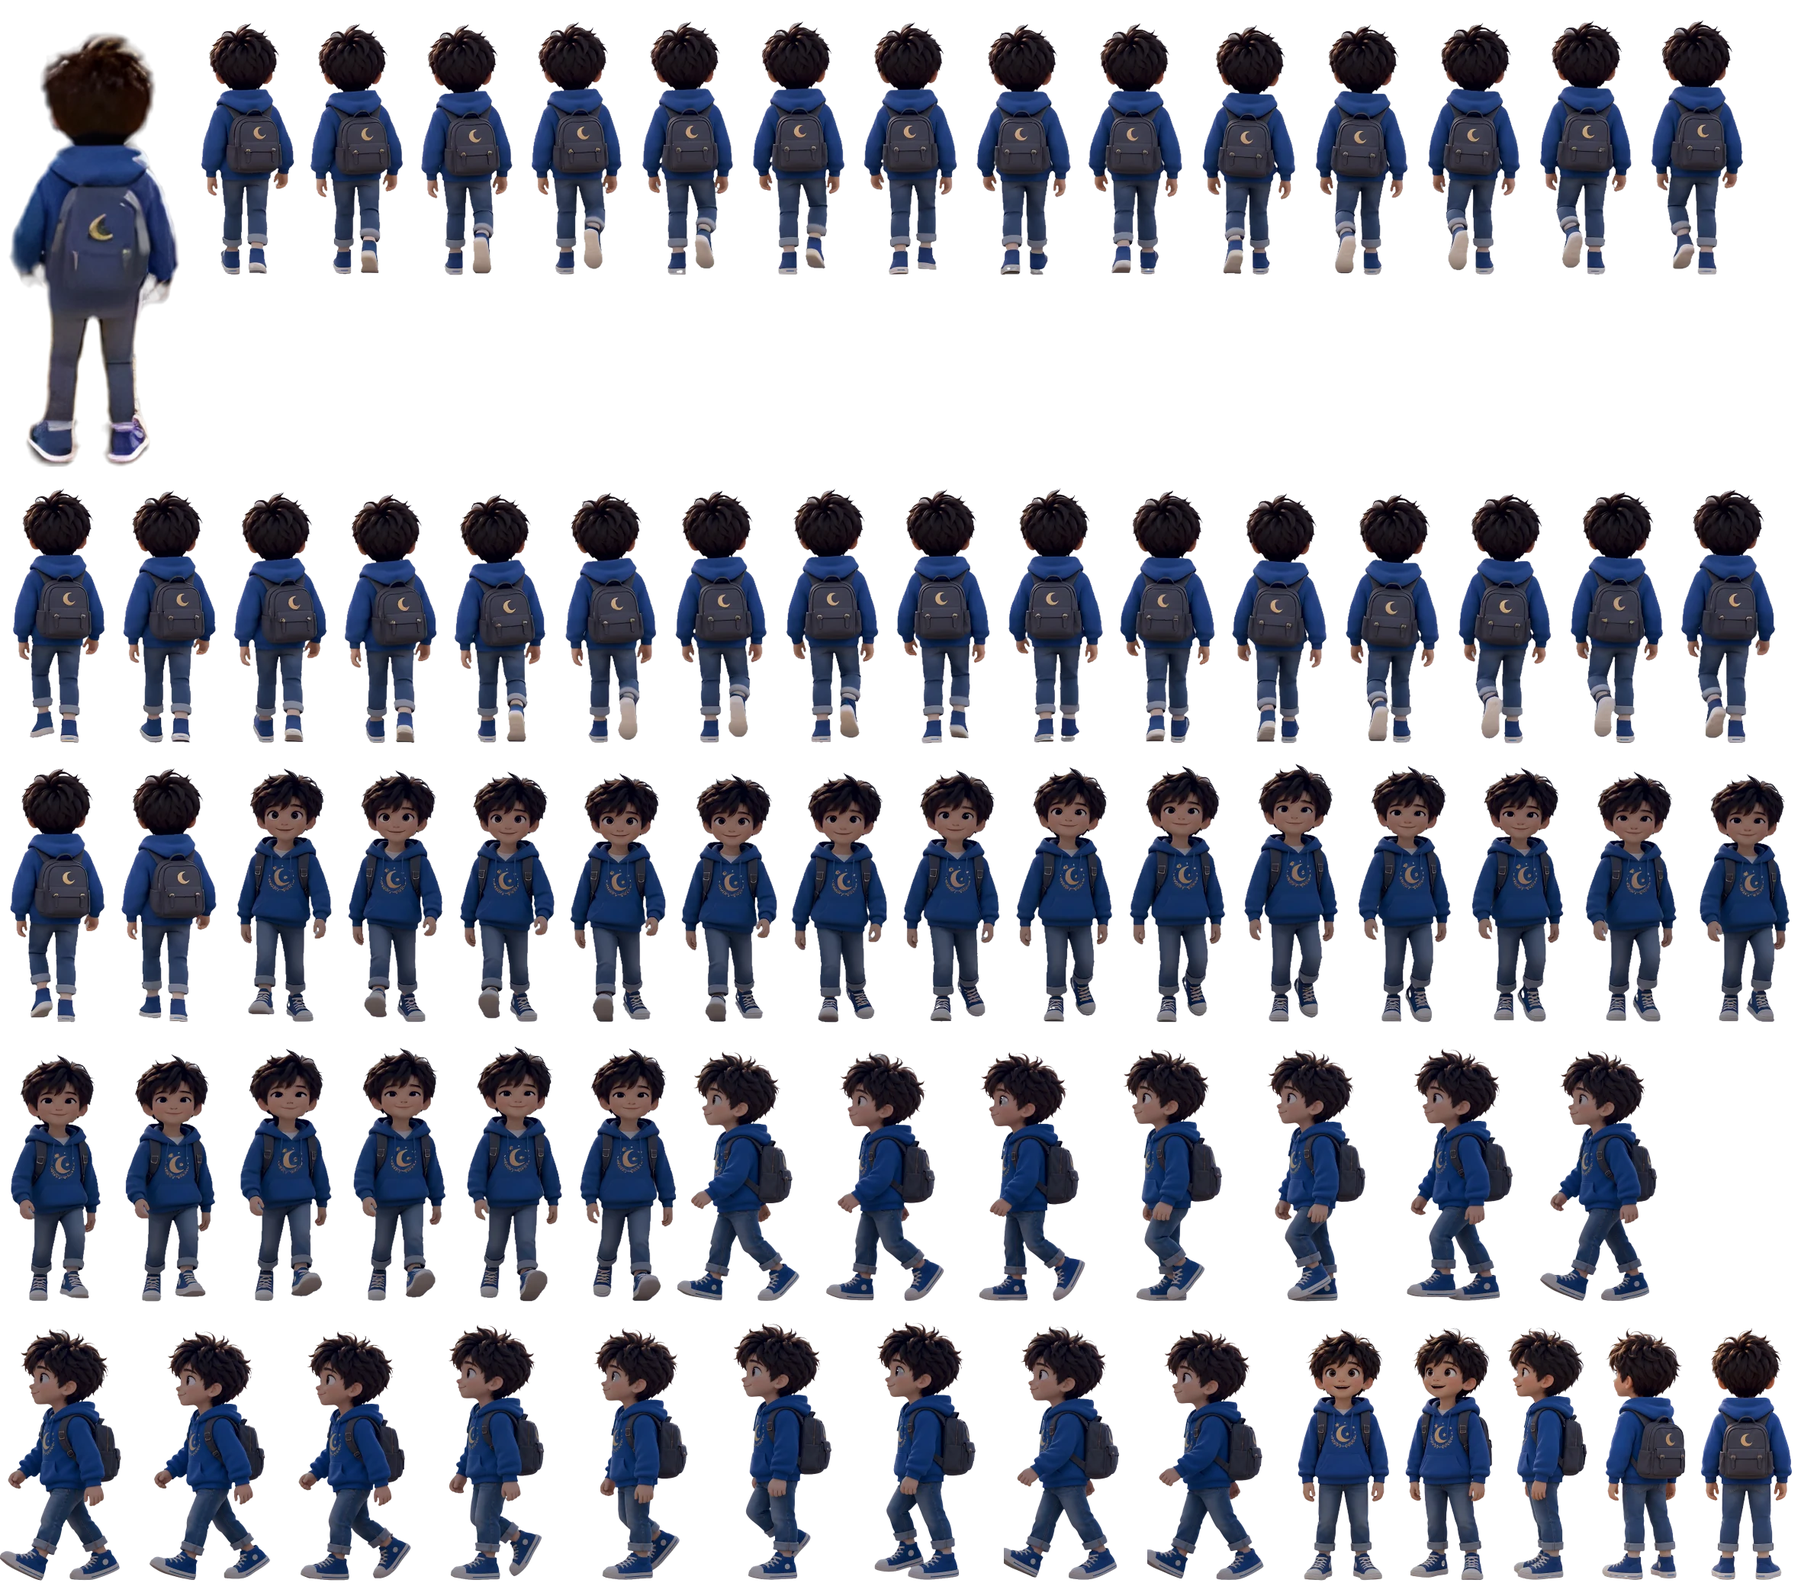
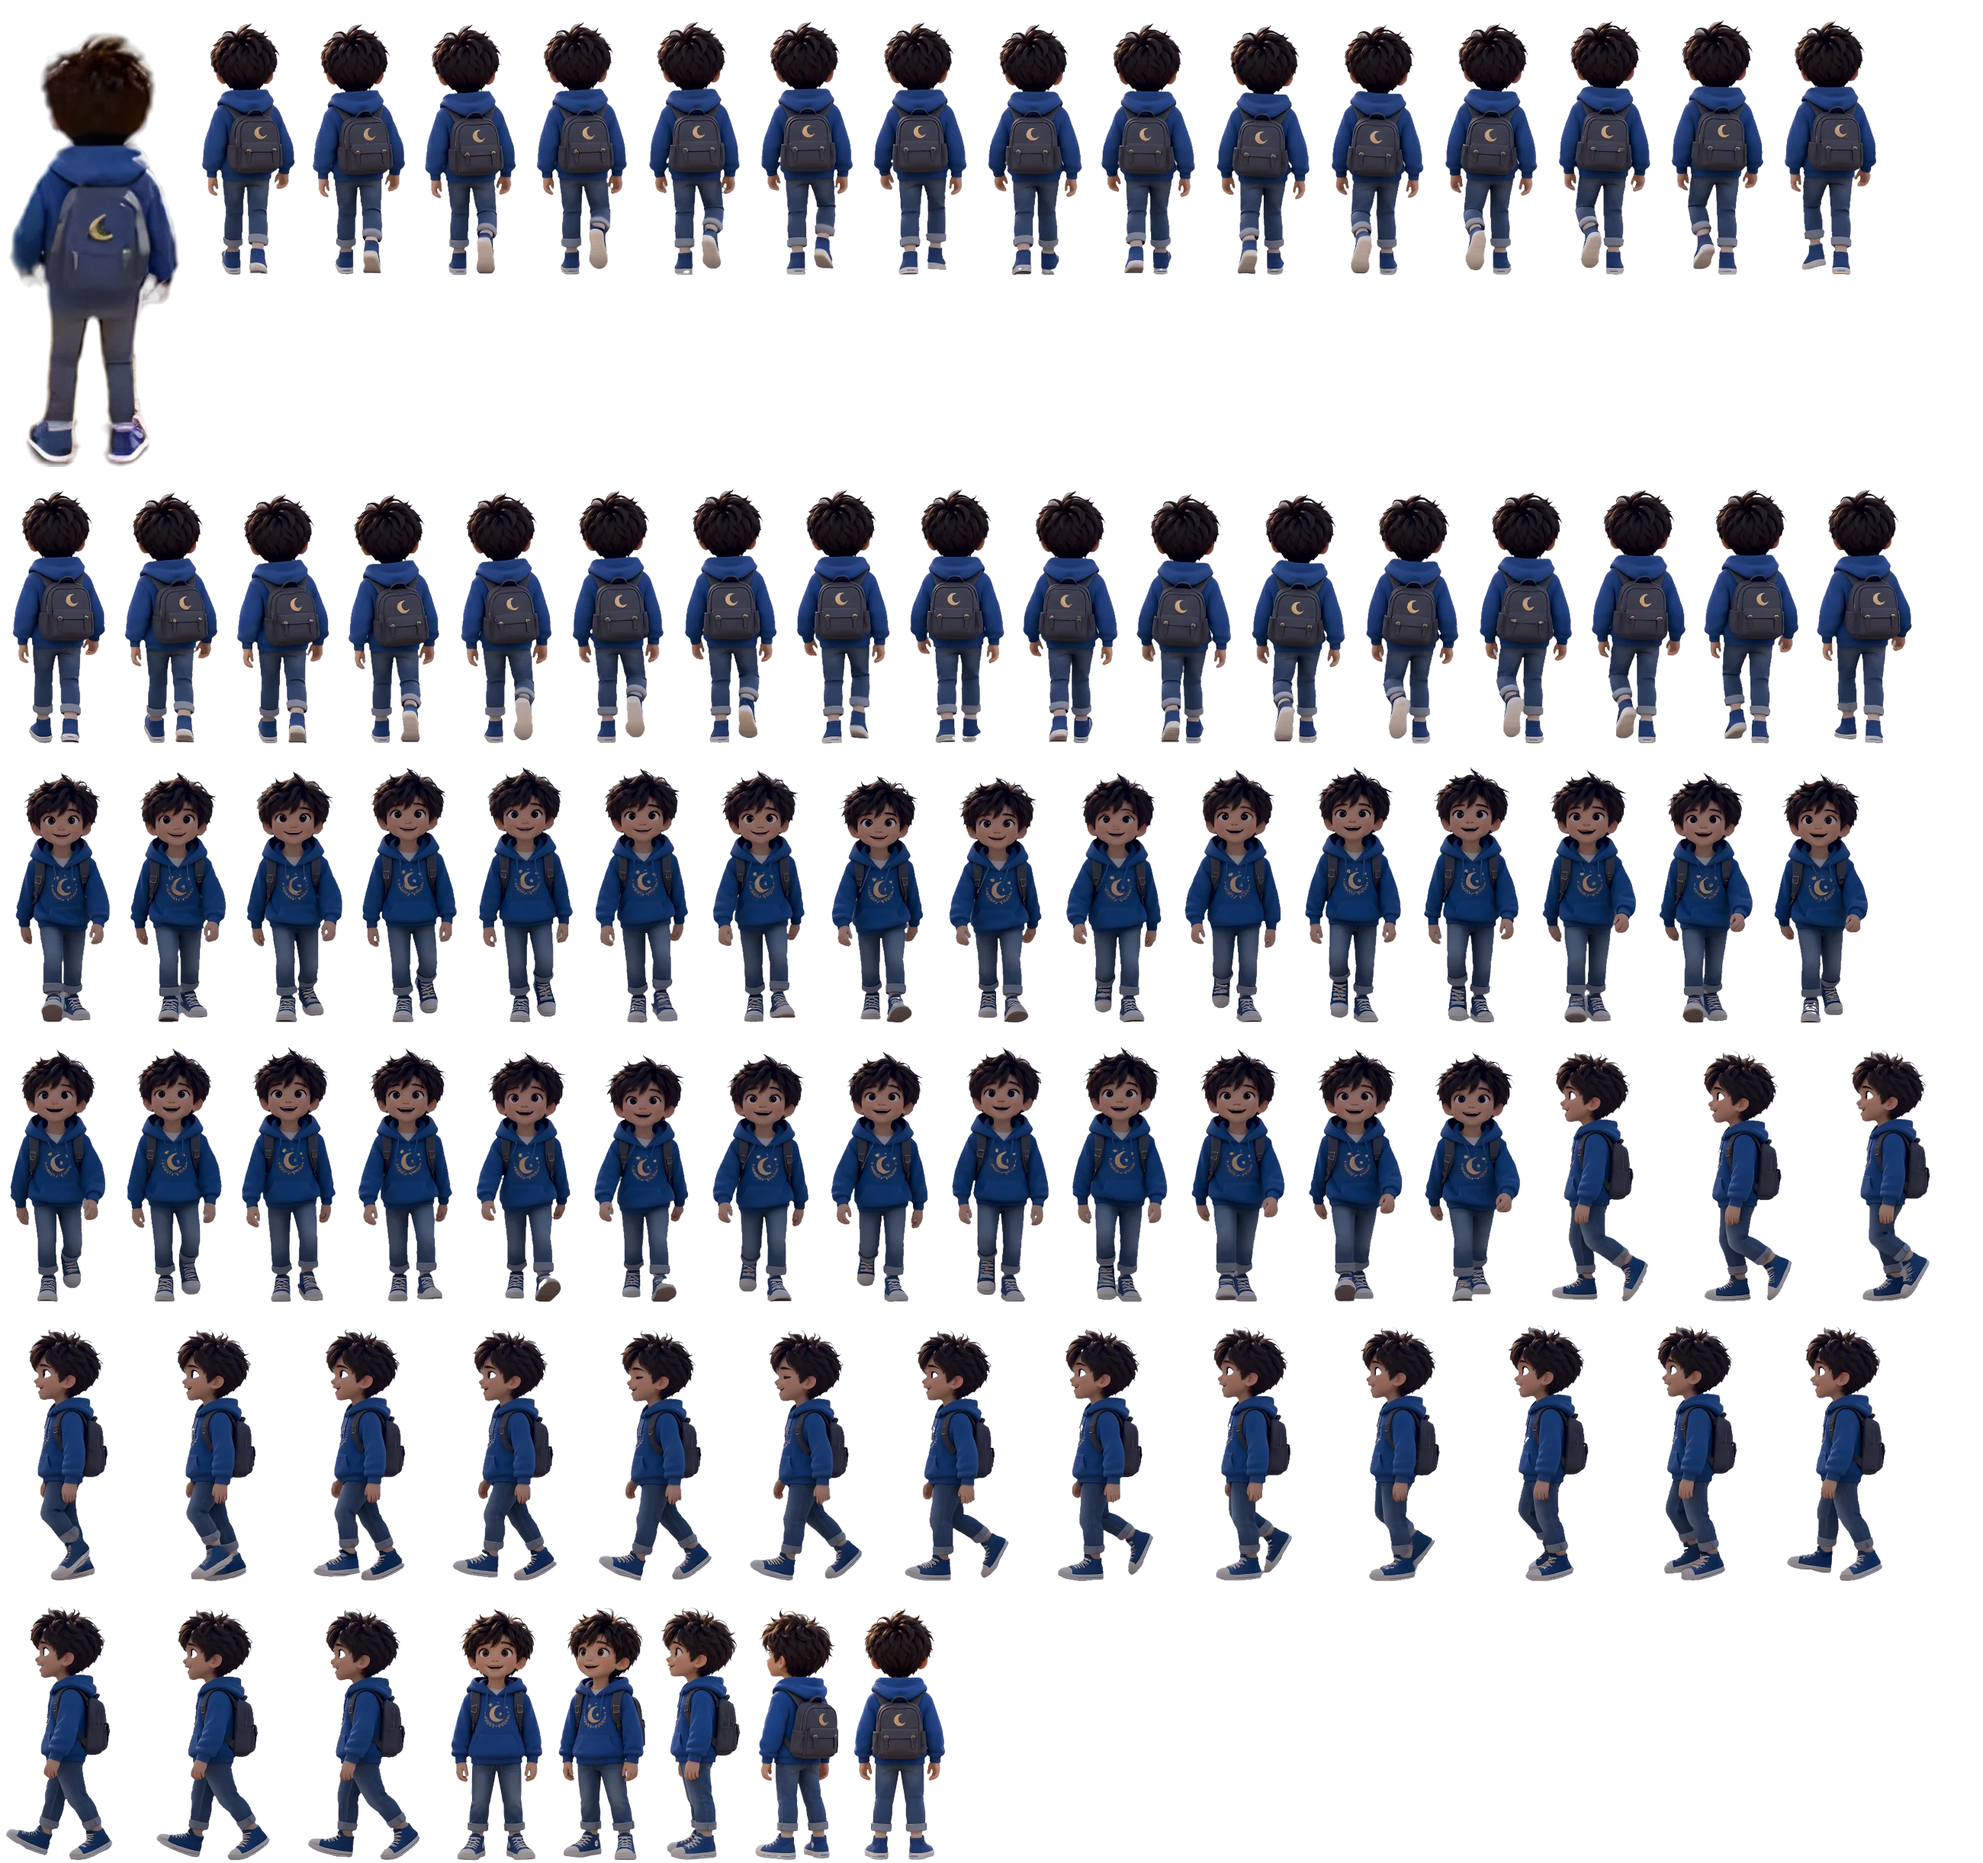
Complete walk animations for Walid, Nesma and the fennec; polish fixes
- All walks now come from Wan 2.2 clips: kids' side and front from trio
  clips, the fennec's side/front/back from fox-only clips with a natural
  diagonal trot (no more pacing)
- Walid's front walk regenerated as a 3 s clip: two full, even strides
- Walk frames fit the farthest pixel on either side of the torso anchor
  (the fennec's tail was clipped in its side walk)
- Overlook: the video-matched poses cross-fade into the crisp back poses
  during the hold before the camera pull-back
- Hero choice: no auto-focused card (Walid looked pre-selected); hover and
  keyboard focus have separate styles
- Prompts for the fox clips; roadmap updated

diff --git a/src/scenes/OverlookScene.ts b/src/scenes/OverlookScene.ts
@@ -141,12 +141,32 @@ export class OverlookScene extends Phaser.Scene {
     this.party = new Party(c[GameState.leaderName], [c[GameState.buddyName], c.fox], this.walkable);
   }
 
+  /**
+   * The first frame uses the poses cut from the video so the hand-over is exact.
+   * While the camera still holds, fade those (blurry) poses into the crisp
+   * turnaround back views.
+   */
+  private crossfadeToCleanPoses(): void {
+    for (const c of Object.values(this.characters)) {
+      const s = c.sprite;
+      const ghost = this.add
+        .image(s.x, s.y, s.texture.key, s.frame.name)
+        .setOrigin(s.originX, s.originY)
+        .setScale(s.scaleX, s.scaleY)
+        .setDepth(s.depth + 0.01);
+      c.introPose = false;
+      c.update(0); // show the clean pose underneath right away
+      this.tweens.add({ targets: ghost, alpha: 0, delay: 150, duration: OPENING_HOLD_MS - 150, ease: 'Sine.easeInOut', onComplete: () => ghost.destroy() });
+    }
+  }
+
   private startOpening(): void {
     if (this.phase !== 'waiting') return;
     this.phase = 'opening';
     const from = { ...this.world.endFrameRect };
     const to = this.world.overviewRect;
     const k0 = this.world.endFrameParty.scale;
+    this.crossfadeToCleanPoses();
     this.time.delayedCall(OPENING_HOLD_MS, () => {
       this.tweens.addCounter({
         from: 0,
@@ -168,8 +188,6 @@ export class OverlookScene extends Phaser.Scene {
           this.phase = 'choose';
           // a short exchange first, so choosing the leader is part of the story
           await this.beforeChoice();
-          // the choice card dims the scene: swap to the high-quality standing poses now
-          for (const c of Object.values(this.characters)) c.introPose = false;
           GameState.hero = await chooseHero();
           this.makeParty();
           this.phase = 'play';

diff --git a/src/styles.css b/src/styles.css
@@ -249,7 +249,9 @@ html, body {
   box-shadow: 0 8px 0 #8a5a12, 0 14px 30px rgba(0, 0, 0, 0.45);
   transition: transform 140ms ease;
 }
-.hero-option:hover, .hero-option:focus-visible { transform: translateY(-4px) scale(1.03); outline: none; border-color: #fff2bf; }
+.hero-option:hover { transform: translateY(-4px) scale(1.05); border-color: #fff2bf; box-shadow: 0 10px 0 #8a5a12, 0 18px 36px rgba(0, 0, 0, 0.5); }
+.hero-option:focus { outline: none; }
+.hero-option:focus-visible { outline: 3px solid var(--gold-2); outline-offset: 4px; }
 .hero-option img { width: 100%; aspect-ratio: 1; object-fit: cover; object-position: 50% 15%; border-radius: 50%; background: #fff; }
 
 /* ---- Discovery toast ---- */

diff --git a/src/ui/HeroSelect.ts b/src/ui/HeroSelect.ts
@@ -31,6 +31,6 @@ export function chooseHero(): Promise<Hero> {
       }),
     );
     root.addEventListener('pointerdown', (e) => e.stopPropagation());
-    root.querySelector<HTMLButtonElement>('.hero-option')?.focus();
+    // no auto-focus: nothing looks pre-selected; Tab still reaches both cards
   });
 }

diff --git a/tools/pipeline/pack_assets.py b/tools/pipeline/pack_assets.py
@@ -50,7 +50,7 @@ WALK_SOURCES = {
     # art masters (ChatGPT/Codex) win over the old intro extractions when present
     "front": ("art:walk_front|work:chars_front_x4", WALK_FRAME_STEP, WALK_FPS // WALK_FRAME_STEP),
     # ChatGPT/Codex side walk (facing left): 16 frames over one stride, timed by timing.json
-    "side": ("art:walk_side", 1, 16),
+    "side": ("art:walk_side", 1, 16),  # all walk masters now come from Wan 2.2 clips (16 fps)
 }
 VIEW_LIGHT_MATCH = 0.75  # how strongly turnaround views take on the scene's light (0..1)
 VIEW_FACINGS: dict[str, dict[str, str]] = {}
@@ -235,6 +235,10 @@ def main() -> None:
             canvas, feet = canvas_for(SHIP_WALK_BODY_PX, ref, walks)
             # one horizontal anchor for the whole loop: the mean torso centre
             centre = float(np.mean([torso_center_x(w) for w in walks]))
+            # the frame must hold the farthest pixel on EITHER side of that anchor
+            # (a fox's tail sticks out far on one side only)
+            reach = max(max(centre - body_box(w)[0], body_box(w)[2] - centre) for w in walks)
+            canvas = (max(canvas[0], int(2 * reach * SHIP_WALK_BODY_PX / ref) + 16), canvas[1])
             prefix = "walk_" if d == "back" else f"walk_{d}_"
             for k, w in enumerate(walks):
                 frames[f"{prefix}{k:02d}"] = fit_frame(w, SHIP_WALK_BODY_PX, ref, canvas, feet, centre)

diff --git a/docs/ROADMAP-world.md b/docs/ROADMAP-world.md
@@ -4,7 +4,7 @@ Ideas agreed on 2026-10-20 for the overlook (before the hero choice) and the Roa
 Tick them off as they land.
 
 ## Overlook
-- [ ] **1. A short scene before the choice.** A short exchange after the camera pull-back (Walid: "Look, the whole Kingdom!", Nesma: "Where do we start?", the fox yips towards the trail), then "Who leads the way?".
+- [x] **1. A short scene before the choice.** A short exchange after the camera pull-back (Walid: "Look, the whole Kingdom!", Nesma: "Where do we start?", the fox yips towards the trail), then "Who leads the way?".
 - [ ] **2. Ambient life.** Drifting clouds, sparkling waterfalls, a few birds, so the world feels alive rather than a still picture.
 - [ ] **3. Sound and music.** Continue the intro's music into the game. Add soft footsteps and sparkle sounds for waypoints. This matters most for the demo video.
 
@@ -16,6 +16,6 @@ Tick them off as they land.
 - [ ] **8. Arabic dialogue.** Translate `content/dialogue/road.ink`; the dialogue box already supports right-to-left text.
 
 ## Character movement (waiting for GPU quota)
-- [ ] Side walks for Walid and Nesma (Wan clip, 3 s)
-- [ ] Walid's front walk redone (3 s clip, so both steps are complete)
-- [ ] Fox-only clips (front, back, side) with a natural diagonal trot
+- [x] Side walks for Walid and Nesma (Wan clip, 3 s)
+- [x] Walid's front walk redone (3 s clip, so both steps are complete)
+- [x] Fox-only clips (front, back, side) with a natural diagonal trot
